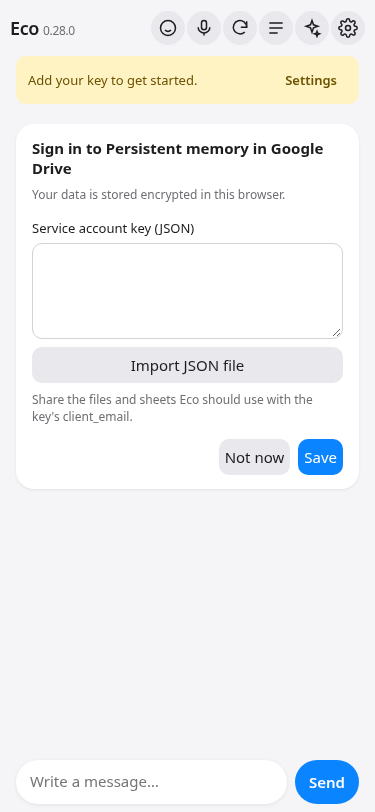
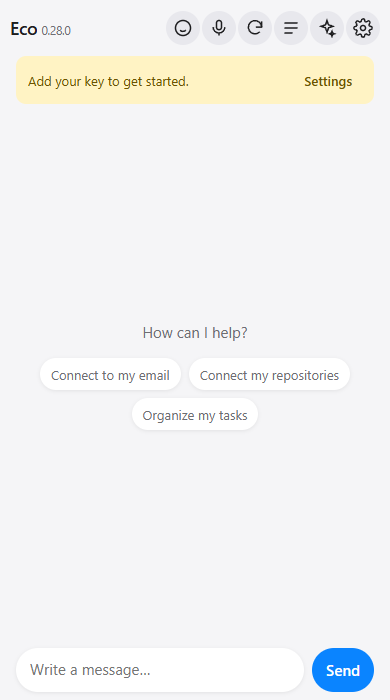
v0.29.0: subagent abort recovery, OAuth native window, version check and sign-in errors

diff --git a/index.html b/index.html
@@ -4,9 +4,9 @@
   <meta charset="utf-8">
   <meta name="viewport" content="width=device-width,initial-scale=1,viewport-fit=cover">
   <meta name="theme-color" content="#f5f5f7">
-  <link rel="manifest" href="manifest.webmanifest?v=0.28.0">
-  <link rel="icon" href="assets/icon.svg?v=0.28.0">
-  <link rel="stylesheet" href="css/app.css?v=0.28.0">
+  <link rel="manifest" href="manifest.webmanifest?v=0.29.0">
+  <link rel="icon" href="assets/icon.svg?v=0.29.0">
+  <link rel="stylesheet" href="css/app.css?v=0.29.0">
   <title>Eco</title>
 </head>
 <body>
@@ -42,6 +42,6 @@
   <dialog id="settings"><div class="panelHead"><h2>Settings</h2><button data-close type="button">Close</button></div><label>Name<input id="ecoName" maxlength="24" autocomplete="off" spellcheck="false" aria-describedby="ecoNameHint"></label><small id="ecoNameHint" class="fieldHint" role="status">Wake word, title and name in shared memory.</small><label>OpenRouter key<input id="openrouterKey" type="password" autocomplete="off"></label><label>Model<input id="model" autocomplete="off"></label><div class="stepLimits"><label>Steps · orchestrator<input id="orchestratorSteps" type="number" required aria-label="Orchestrator steps"></label><label>Steps · subagent<input id="subagentSteps" type="number" required aria-label="Subagent steps"></label></div><h3 class="sectionTitle">Connectors</h3><div id="connectorList" class="connectorList"></div><h3 class="sectionTitle">Routines</h3><div id="routineList" class="connectorList"></div><h3 id="memoryTitle" class="sectionTitle" hidden>Shared memory</h3><div id="memoryList" class="connectorList" hidden></div><details id="faceSettings" class="settingsSection faceVoiceSection"><summary>Face mode</summary><div id="facePackControls" class="facePackControls"></div><div id="faceSettingsFields"></div></details><details id="voiceSettings" class="settingsSection faceVoiceSection"><summary>Voice</summary><div id="voiceSettingsFields"></div></details><details id="magicSettings" class="settingsSection faceVoiceSection"><summary>Magic</summary><div id="magicList" class="connectorList"></div><form id="magicForm" class="magicForm" hidden></form></details><details id="dreamingSettings" class="settingsSection faceVoiceSection"><summary>Dreaming</summary><div id="dreamingFields"></div></details><details class="securitySection"><summary>Secure wipe</summary><p id="securityStatus" role="status"></p><form id="securityForm" autocomplete="off"><label id="securityCurrentLabel" hidden>Current word<input id="securityCurrent" type="password" autocomplete="off" maxlength="128"></label><label>New word<input id="securityNew" type="password" autocomplete="off" minlength="8" maxlength="128" required></label><label>Repeat word<input id="securityRepeat" type="password" autocomplete="off" minlength="8" maxlength="128" required></label><button id="securitySave" type="submit">Save word</button></form><div class="stepLimits wipeLimits"><label>Days closed<input id="wipeClosedDays" type="number" inputmode="numeric" required></label><label>Days offline<input id="wipeOfflineDays" type="number" inputmode="numeric" required></label><label>Skull from (days)<input id="wipeWarningDays" type="number" inputmode="decimal" required></label><label>Check (seconds)<input id="wipeIntervalSeconds" type="number" inputmode="numeric" required></label></div><p>Deletes Eco's conversations, keys and tools on this device. It does not revoke access or erase shared memory.</p><button id="clearData" class="danger" type="button">Erase Eco from this device</button></details></dialog>
   <dialog id="clarify"><h2 id="clarifyQuestion"></h2><div id="clarifyOptions" class="clarifyOptions"></div><form id="clarifyForm"><input id="clarifyText" placeholder="Your answer"><button type="submit">Continue</button></form></dialog>
   <dialog id="subagentsPanel" class="subagentsPanel"><div class="panelHead"><h2>Subagents</h2><button type="button" data-close>Close</button></div><div class="subagentPager"><button id="subagentPrevious" type="button" aria-label="Previous">‹</button><span id="subagentPosition"></span><button id="subagentNext" type="button" aria-label="Next">›</button></div><strong id="subagentTask"></strong><small id="subagentStatus"></small><p id="subagentResult"></p><button id="subagentStop" type="button">Stop</button><form id="subagentForm"><input id="subagentInstruction" placeholder="Change instructions or continue" aria-label="Instructions for the subagent" maxlength="12000"><button id="subagentFollow" type="submit">Send</button></form><p id="subagentError" role="status"></p></dialog>
-  <script type="module" src="js/app.js?v=0.28.0"></script>
+  <script type="module" src="js/app.js?v=0.29.0"></script>
 </body>
 </html>

diff --git a/js/bridge.js b/js/bridge.js
@@ -8,7 +8,9 @@ import { readDeviceDocumentation, listDeviceTools, manageDeviceTool, callDeviceT
 import { timedFetch } from "./network.js";
 import { passiveMemory, memoryCall, configureMemory, databaseMemoryGuide, topicSkill, topicSkills, devicePublicIp } from "./passive-skills.js";
 import { abortJob, jobRecords, jobSignal, jobSnapshot, jobUpdate, resumeJob } from "./subagents.js";
-import { DEFAULT_MODEL } from "./config.js";
+import { DEFAULT_MODEL, APP_VERSION } from "./config.js";
+import { requestHelp } from "./help.js";
+import { byId } from "./ui.js";
 import { emitActivity } from "./face-config.js";
 import { all, remove, setting, store } from "./storage.js";
 import { connectorFetch, deleteConnector, getConnector, normalizeConnector, publicConnectors, saveConnector, validateConnector } from "./connectors.js";
@@ -181,13 +183,15 @@ window.ecoBridge = {
     if (options.body == null) {
       delete options.body;
     }
-    options.signal = jobSignal(jobId);
+    const signal = jobSignal(jobId);
+    options.signal = signal && !signal.aborted ? signal : undefined;
     return timedFetch(url, options);
   },
   async config() {
     return JSON.stringify({
       key: setting("openrouterKey"),
       model: setting("model") || DEFAULT_MODEL,
+      version: APP_VERSION,
       ...stepLimits(),
       origin: location.origin
     });
@@ -223,7 +227,10 @@ window.ecoBridge = {
   async requestSignIn(id, method, sessionId, jobId) {
     const connector = await getConnector(String(id));
     if (!connector) {
-      return JSON.stringify({ ok: false, error: "Connector not found" });
+      const notice = "Connector not found: " + String(id || "");
+      byId("subagentError").textContent = notice;
+      requestHelp(notice);
+      return JSON.stringify({ ok: false, error: notice });
     }
     const options = jobId ? { jobId: String(jobId) } : {};
     if (method === "google_service_account") options.method = method;

diff --git a/js/connectors.js b/js/connectors.js
@@ -639,7 +639,7 @@ function waitForOAuth(popup, state) {
       finish(resolve, data.params);
     };
     const onMessage = (event) => {
-      if (event.origin === location.origin && event.source === popup) receive(event.data);
+      if (event.origin === location.origin) receive(event.data);
     };
     if (channel) channel.onmessage = (event) => receive(event.data);
     const poll = channel ? null : setInterval(() => {
@@ -660,6 +660,21 @@ export function redirectUri() {
 }
 
 export function openOAuthWindow() {
+  if (window.eco?.native?.invoke) {
+    const popup = {
+      closed: false,
+      location: { href: "" },
+      close() {
+        popup.closed = true;
+        window.eco.native.invoke("window", "closeOAuth").catch(() => {});
+      },
+      async setLocation(href) {
+        popup.location.href = href;
+        await window.eco.native.invoke("window", "openOAuth", { url: href });
+      }
+    };
+    return popup;
+  }
   return window.open("", "eco-oauth", POPUP_FEATURES);
 }
 
@@ -687,10 +702,19 @@ export async function startOAuth(id, clientId, openedPopup = null) {
     params.delete("prompt");
     if (previous?.login_hint) params.set("login_hint", previous.login_hint);
   }
-  const popup = openedPopup;
+  const popup = openedPopup || openOAuthWindow();
   if (!popup || popup.closed) return false;
   const response = waitForOAuth(popup, state);
-  popup.location.href = authorizeUrl(auth, params);
+  const url = authorizeUrl(auth, params);
+  if (typeof popup.setLocation === "function") {
+    try {
+      await popup.setLocation(url);
+    } catch {
+      return false;
+    }
+  } else {
+    popup.location.href = url;
+  }
   let result;
   try {
     result = await response;

diff --git a/js/subagents.js b/js/subagents.js
@@ -13,17 +13,24 @@ let api;
 let selected = 0;
 
 export function jobSignal(id) {
-  return controllers.get(id)?.signal;
+  const controller = controllers.get(id);
+  if (!controller) return undefined;
+  if (controller.signal.aborted) {
+    controllers.set(id, new AbortController());
+    return controllers.get(id).signal;
+  }
+  return controller.signal;
 }
 
-export function abortJob(id) {
-  controllers.get(id)?.abort();
+export function abortJob(id, reason) {
+  controllers.get(id)?.abort(new Error(reason || "detenido"));
   window.ecoUI?.cancelJob(id);
 }
 
 export function resumeJob(id) {
   if (isWiping()) return;
-  controllers.set(id, new AbortController());
+  const current = controllers.get(id);
+  if (!current || current.signal.aborted) controllers.set(id, new AbortController());
 }
 
 export async function jobSnapshot(id, sessionId) {
@@ -51,7 +58,7 @@ export async function jobUpdate(raw, finished) {
   const before = previous?.status;
   if (previous) Object.assign(previous, next);
   else session.subagents.push(next);
-  if (value.status === ACTIVE && !controllers.has(value.id)) resumeJob(value.id);
+  if (value.status === ACTIVE && (!controllers.has(value.id) || controllers.get(value.id).signal.aborted)) resumeJob(value.id);
   if (value.status !== ACTIVE) controllers.delete(value.id);
   await api.persist(session);
   if (isWiping()) return;
@@ -178,7 +185,7 @@ export async function setupSubagents(options) {
 }
 
 export function stopSubagents() {
-  for (const id of controllers.keys()) { try { abortJob(id); } catch {} }
+  for (const id of controllers.keys()) { try { abortJob(id, "Eco se detuvo"); } catch {} }
   controllers.clear();
   api = null;
 }

diff --git a/js/network.js b/js/network.js
@@ -4,7 +4,7 @@ const MODEL_TIMEOUT_MS = 300000;
 const controllers = new Set();
 
 export function abortNetwork() {
-  for (const controller of controllers) controller.abort();
+  for (const controller of controllers) controller.abort(new Error("red cancelada"));
   controllers.clear();
 }
 
@@ -14,10 +14,9 @@ export async function timedFetch(url, init = {}, timeoutMs) {
   const ms = typeof timeoutMs === "number" ? timeoutMs : isModel ? MODEL_TIMEOUT_MS : REQUEST_TIMEOUT_MS;
   const controller = new AbortController();
   controllers.add(controller);
-  const abort = () => controller.abort();
+  const abort = () => controller.abort(external?.reason || new Error("cancelado"));
   const external = init.signal;
-  if (external?.aborted) controller.abort();
-  else external?.addEventListener("abort", abort, { once: true });
+  if (external && !external.aborted) external.addEventListener("abort", abort, { once: true });
   let timedOut = false;
   const onTimeout = () => { timedOut = true; controller.abort(); };
   const timer = setTimeout(onTimeout, ms);

diff --git a/js/pyodide.js b/js/pyodide.js
@@ -35,6 +35,10 @@ export async function loadAgent() {
     }
     pyodide.FS.writeFile("/home/pyodide/eco/" + file, await response.text());
   }
-  await pyodide.runPythonAsync("import sys; sys.path.insert(0, '/home/pyodide'); from eco.agent import run_turn; from eco.subagents import job_control, forget_jobs");
+  await pyodide.runPythonAsync("import sys; sys.path.insert(0, '/home/pyodide'); from eco import APP_VERSION; from eco.agent import run_turn; from eco.subagents import job_control, forget_jobs");
+  const pyVersion = pyodide.globals.get("APP_VERSION");
+  if (String(pyVersion) !== APP_VERSION) {
+    throw new Error("Version mismatch: Python " + String(pyVersion) + " vs JS " + APP_VERSION);
+  }
   return pyodide;
 }

diff --git a/js/config.js b/js/config.js
@@ -1,5 +1,5 @@
 export const APP_ID = "eco";
-export const APP_VERSION = "0.28.0";
+export const APP_VERSION = "0.29.0";
 export const PYODIDE_URL = "https://cdn.jsdelivr.net/pyodide/v314.0.7/full/pyodide.js";
 export const DEFAULT_MODEL = "deepseek/deepseek-v4.1-flash-1017";
 export const STORAGE_PREFIX = "eco.";

diff --git a/sw.js b/sw.js
@@ -1,6 +1,6 @@
 let wiping = false;
-const CACHE_NAME = "eco-v0.28.0";
-const VERSION_QUERY = "?v=0.28.0";
+const CACHE_NAME = "eco-v0.29.0";
+const VERSION_QUERY = "?v=0.29.0";
 const SHELL_FILES = [
   "./",
   "index.html",

diff --git a/py/eco/agent.py b/py/eco/agent.py
@@ -8,6 +8,7 @@ from .compression import compact
 
 OPENROUTER_URL = "https://openrouter.ai/api/v1/chat/completions"
 APP_TITLE = "Eco"
+APP_VERSION = "0.29.0"
 DEFAULT_MODEL = "deepseek/deepseek-v4.1-flash-1017"
 CONTEXT_TOKEN_LIMIT = 128000
 LIMIT_PROMPT = (
@@ -75,6 +76,8 @@ async def reload_page(args):
 
 
 async def complete(config, messages, tools):
+    if str(config.get("version", "")) != APP_VERSION:
+        raise RuntimeError("Version mismatch: Python " + APP_VERSION + " vs JS " + str(config.get("version", "")))
     headers = {
         "Content-Type": "application/json",
         "Authorization": "Bearer " + config.get("key", ""),
@@ -167,6 +170,8 @@ async def run_loop(messages, config, child=False, job=None):
         await tools_extra.refresh_speech(tools)
         if not child:
             await tools_extra.refresh_dreaming(tools)
+        if job:
+            job["step"] = "llamada al modelo"
         message = clean_message(await complete(config, messages, tools.tools()))
         if job and job["inbox"]:
             continue
@@ -178,6 +183,9 @@ async def run_loop(messages, config, child=False, job=None):
         for call in calls:
             name = call.get("function", {}).get("name", "")
             args = parse_arguments(call.get("function", {}).get("arguments"))
+            if job:
+                job["step"] = name
+                await subagents.publish(job)
             await ecoBridge.onToolStart(name, json.dumps(args, ensure_ascii=False))
             try:
                 if job and job["inbox"]:

diff --git a/py/eco/subagents.py b/py/eco/subagents.py
@@ -38,7 +38,8 @@ async def worker(job):
         pass
     except Exception as error:
         if job["status"] == "ejecutando":
-            job.update({"status": "error", "error": str(error), "summary": str(error)})
+            note = ("step " + str(job.get("step")) + ": " + str(error)) if job.get("step") else str(error)
+            job.update({"status": "error", "error": note, "summary": note})
             await publish(job, True)
     finally:
         if tasks.get(job["id"]) is asyncio.current_task():
@@ -90,10 +91,11 @@ async def control(args):
         if job["status"] != "ejecutando":
             return {"subagente": public(job)}
         job["status"] = "detenido"
+        job["step"] = "detenido"
         task = tasks.get(key)
         if task:
             task.cancel()
-        await bridge.abortJob(key)
+        await bridge.abortJob(key, "detenido por el usuario")
         await publish(job, True)
         return {"ok": True, "subagente": public(job)}
     if action != "modificar":

diff --git a/py/eco/__init__.py b/py/eco/__init__.py
@@ -1,1 +1,2 @@
+APP_VERSION = "0.29.0"
 from .agent import run_turn

diff --git a/README.md b/README.md
@@ -2,9 +2,9 @@
 
 An AI agent that lives in your browser: it talks with you, builds its own tools and remembers what matters.
 
-[App](https://juliangdeveloper.github.io/eco/) · Version 0.28.0
+[App](https://juliangdeveloper.github.io/eco/) · Version 0.29.0
 
-<img src="assets/screenshot.png?v=0.28.0" alt="Eco asking for a Google service account key on a phone" width="320">
+<img src="assets/screenshot.png?v=0.29.0" alt="Eco home screen on a phone" width="320">
 
 ## Get started
 
